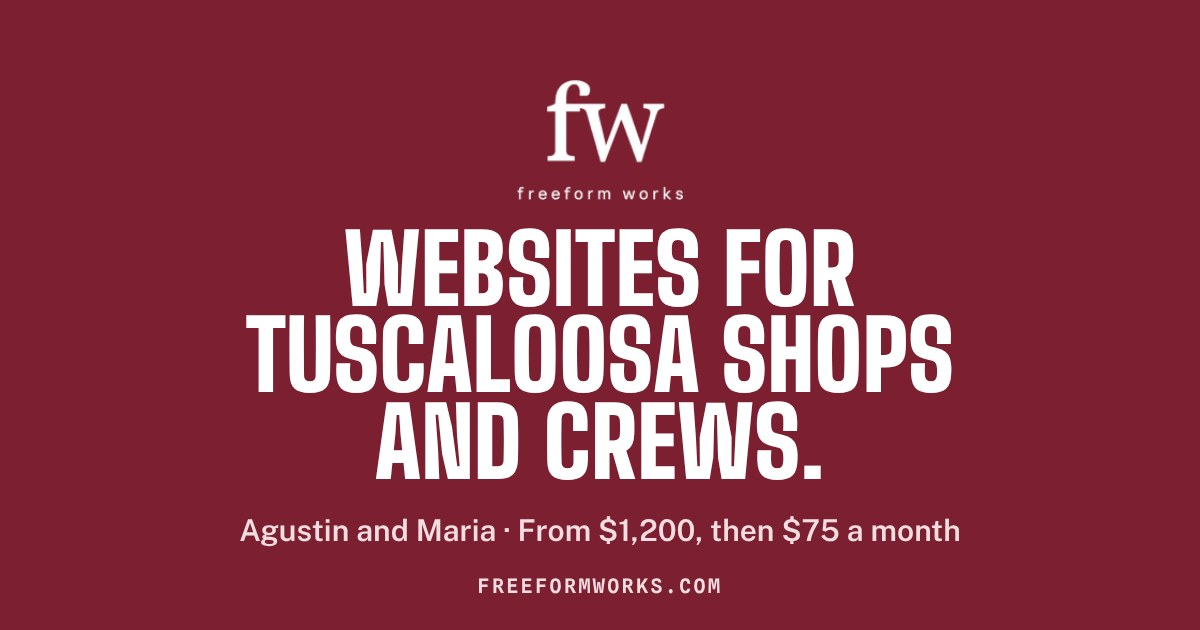
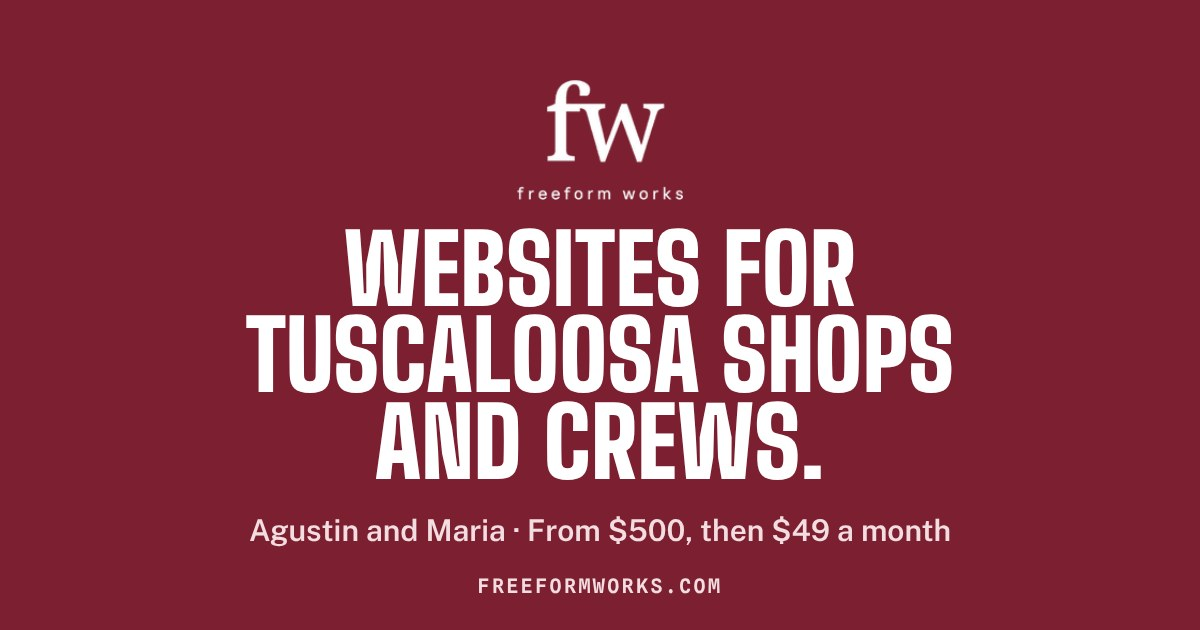
Pricing: add Solo plan, payment options and founding clients
From the competitor pricing research:
- New Solo plan, $500 + $49/mo, for one person with one calendar:
  a 1-3 page site, booking for one calendar, Google profile cleanup
  and search setup. The receipt now has Solo / Shop / Crew tabs, with
  Shop selected first; the auto-flip goes Shop, Crew, Solo.
- Shop can be $0 down: $175 a month for 12 months, then $75.
- Crew setup is paid half at kickoff, half at launch.
- One price per business, yearly billing at two months free, and a
  founding-client offer: half off setup for the first five shops and
  first three crews, for a review, testimonial and permission to show
  the work.
- Hero link for solo operators opens the receipt on Solo. Meta,
  business info and the share card now say "From $500".
- PRODUCT.md records the new plans, and that invoicing/payments and
  the chair dashboard are not built yet.

Claude-Session: https://claude.ai/code/session_01GpGpBTmoGn8bS7CZ4poFxu

Changed region(s): [[0.185, 0.8143, 0.8017, 0.8746]]

diff --git a/index.html b/index.html
@@ -5,17 +5,17 @@
 <meta name="viewport" content="width=device-width, initial-scale=1">
 <link rel="canonical" href="https://www.freeformworks.com/">
 <title>Freeform Works · Websites for Tuscaloosa shops and crews</title>
-<meta name="description" content="Agustin and Maria build websites, booking and owner dashboards for local shops and trade crews in Tuscaloosa. From $1,200, then $75 a month.">
+<meta name="description" content="Agustin and Maria build websites, booking and owner dashboards for local shops and trade crews in Tuscaloosa. From $500, then $49 a month.">
 <meta name="theme-color" content="#ffffff">
 <meta name="site-kind" content="other">
 <link rel="icon" href="assets/favicon-32.png" sizes="32x32" type="image/png">
 <link rel="icon" href="assets/favicon-16.png" sizes="16x16" type="image/png">
 <meta property="og:title" content="Freeform Works · Websites for Tuscaloosa shops and crews">
-<meta property="og:description" content="Websites, booking and owner dashboards for local businesses. From $1,200, then $75 a month.">
+<meta property="og:description" content="Websites, booking and owner dashboards for local businesses. From $500, then $49 a month.">
 <meta property="og:image" content="https://www.freeformworks.com/assets/social-card.jpg">
 <meta property="og:image:width" content="1200">
 <meta property="og:image:height" content="630">
-<meta property="og:image:alt" content="Freeform Works: websites for Tuscaloosa shops and crews. From $1,200, then $75 a month.">
+<meta property="og:image:alt" content="Freeform Works: websites for Tuscaloosa shops and crews. From $500, then $49 a month.">
 <meta property="og:type" content="website">
 <meta property="og:site_name" content="Freeform Works">
 <meta name="twitter:card" content="summary_large_image">
@@ -23,7 +23,7 @@
 <meta property="og:url" content="https://www.freeformworks.com/">
 <link rel="preload" href="assets/fonts/big-shoulders-display-900-latin.woff2" as="font" type="font/woff2" crossorigin>
 <link rel="preload" href="assets/fonts/public-sans-latin.woff2" as="font" type="font/woff2" crossorigin>
-<script type="application/ld+json">{"@context": "https://schema.org", "@type": "ProfessionalService", "name": "Freeform Works", "url": "https://www.freeformworks.com/", "email": "hello@freeformworks.com", "description": "Websites, booking on your own domain and owner dashboards for local shops and trade crews in Tuscaloosa, Alabama.", "areaServed": {"@type": "City", "name": "Tuscaloosa", "containedInPlace": {"@type": "State", "name": "Alabama"}}, "address": {"@type": "PostalAddress", "addressLocality": "Tuscaloosa", "addressRegion": "AL", "addressCountry": "US"}, "founder": [{"@type": "Person", "name": "Agustin Lemuz-Juarez"}, {"@type": "Person", "name": "Maria Estrada"}], "logo": "https://www.freeformworks.com/assets/fw-logo.png", "image": "https://www.freeformworks.com/assets/social-card.jpg", "makesOffer": [{"@type": "Offer", "name": "Shop plan", "price": "1200", "priceCurrency": "USD", "description": "Website, booking on your own domain, Google profile cleanup and Google search setup, then $75 a month."}, {"@type": "Offer", "name": "Crew plan", "price": "2500", "priceCurrency": "USD", "description": "Everything in the Shop plan plus quote requests, job scheduling and the owner dashboard, then $200 a month."}]}</script>
+<script type="application/ld+json">{"@context": "https://schema.org", "@type": "ProfessionalService", "name": "Freeform Works", "url": "https://www.freeformworks.com/", "email": "hello@freeformworks.com", "description": "Websites, booking on your own domain and owner dashboards for local shops and trade crews in Tuscaloosa, Alabama.", "areaServed": {"@type": "City", "name": "Tuscaloosa", "containedInPlace": {"@type": "State", "name": "Alabama"}}, "address": {"@type": "PostalAddress", "addressLocality": "Tuscaloosa", "addressRegion": "AL", "addressCountry": "US"}, "founder": [{"@type": "Person", "name": "Agustin Lemuz-Juarez"}, {"@type": "Person", "name": "Maria Estrada"}], "logo": "https://www.freeformworks.com/assets/fw-logo.png", "image": "https://www.freeformworks.com/assets/social-card.jpg", "makesOffer": [{"@type": "Offer", "name": "Solo plan", "price": "500", "priceCurrency": "USD", "description": "A one to three page website, booking for one calendar on your own domain, Google profile cleanup and Google search setup, then $49 a month."}, {"@type": "Offer", "name": "Shop plan", "price": "1200", "priceCurrency": "USD", "description": "Website, booking on your own domain, Google profile cleanup and Google search setup, then $75 a month."}, {"@type": "Offer", "name": "Crew plan", "price": "2500", "priceCurrency": "USD", "description": "Everything in the Shop plan plus quote requests, job scheduling and the owner dashboard, then $200 a month."}]}</script>
 <style>
   @font-face { font-family: "Big Shoulders Display"; font-style: normal; font-weight: 900; font-display: swap; src: url("assets/fonts/big-shoulders-display-900-latin.woff2") format("woff2"); }
   @font-face { font-family: "Public Sans"; font-style: normal; font-weight: 100 900; font-display: swap; src: url("assets/fonts/public-sans-latin.woff2") format("woff2"); }
@@ -454,19 +454,19 @@
   .t-head { text-align: center; }
   .t-head strong { display: block; font-weight: 600; font-size: 17px; letter-spacing: 0.08em; }
   .rule { border: 0; border-top: 2px dashed var(--ink); margin: 16px 0; }
-  .tabs { display: grid; grid-template-columns: 1fr 1fr; gap: 8px; }
+  .tabs { display: grid; grid-template-columns: repeat(3, 1fr); gap: 8px; }
   .tabs button { font: 600 15px/1.2 var(--mono); cursor: pointer; min-height: 44px; padding: 10px 8px; border: 2px solid var(--ink); background: var(--paper); color: var(--ink); }
   .tabs button[aria-pressed="true"] { background: var(--ink); color: var(--paper); }
   .for { margin-top: 10px; font-size: 14px; }
   .ticket ul { list-style: none; padding: 0; }
   /* crew-only lines stay on the ticket; their right column flips between the plans */
   .crew-only > span:first-child { transition: color 300ms ease; }
-  [data-tier="shop"] .crew-only > span:first-child { color: var(--ink-mute); }
+  .ticket:not([data-tier="trade"]) .crew-only > span:first-child { color: var(--ink-mute); }
+  /* each value column holds one answer per plan; only the current plan's answer is in view */
   .val { display: inline-grid; justify-items: end; overflow: clip; }
-  .val > span { grid-area: 1 / 1; white-space: nowrap; }
+  .val > span { grid-area: 1 / 1; white-space: nowrap; translate: 0 110%; }
+  .val > span.on { translate: 0 0; }
   .val .no { color: var(--ink-mute); }
-  [data-tier="shop"] .val .yes { translate: 0 110%; }
-  [data-tier="trade"] .val .no { translate: 0 -110%; }
   .for { transition: opacity 160ms ease; min-height: calc(2 * 1.55em); display: flex; align-items: center; gap: 14px; }
   .for svg { width: 26px; height: 26px; flex: none; fill: none; stroke: var(--ink); stroke-width: 1.8; stroke-linecap: round; stroke-linejoin: round; }
   @media (prefers-reduced-motion: no-preference) {
@@ -474,7 +474,7 @@
     .for svg:nth-child(2) { animation-delay: 40ms; } .for svg:nth-child(3) { animation-delay: 80ms; } .for svg:nth-child(4) { animation-delay: 120ms; }
     @keyframes for-pop { from { opacity: 0; transform: translateY(4px) scale(.92); } }
   }
-  .t-terms { min-height: calc(2 * 1.55em); }
+  .t-terms { min-height: calc(3 * 1.55em); }
   .for.swap { opacity: 0; }
   @media (prefers-reduced-motion: no-preference) {
     .val > span { transition: translate 420ms cubic-bezier(.77, 0, .175, 1); }
@@ -492,6 +492,8 @@
   .total .amt.flash { animation: flash 700ms ease-out; }
   @keyframes flash { from { background: var(--wine-tint); } }
   .t-terms { font-size: 14px; margin-top: 8px; }
+  .founding { margin-top: 28px; padding: 16px 18px; border: 2px dashed currentColor; max-width: 46ch; }
+  .founding-title { font: 600 13px/1.2 var(--mono); text-transform: uppercase; letter-spacing: .08em; margin-bottom: 6px; }
   .sr { position: absolute; width: 1px; height: 1px; overflow: hidden; clip: rect(0 0 0 0); white-space: nowrap; }
   .ticket .btn { width: 100%; margin-top: 18px; min-height: 52px; font-size: 17px; border-radius: 0; }
   .barcode { display: block; width: 100%; height: 46px; margin-top: 18px; }
@@ -650,7 +652,7 @@
           dd.innerHTML = `<span class="sr">${text}</span><span aria-hidden="true">${cols}</span>`;
         });
       </script>
-      <a class="textlink see" href="#prices">See what each plan includes</a>
+      <a class="textlink see" href="#prices" data-pick="solo">Working on your own? Plans start at $500</a>
       <div class="actions">
         <a class="btn btn-wine" href="/book"><span class="roll"><span>Book a 15-min call</span><span class="alt" aria-hidden="true">Free. Pick a time</span></span>
           <svg viewBox="0 0 24 24" fill="none" stroke="currentColor" stroke-width="2.5" aria-hidden="true"><path d="M7 17 17 7M8 7h9v9"/></svg>
@@ -719,21 +721,21 @@
     <p class="label">What you get</p>
     <div class="offer-head">
       <h2 id="what-title">What we build for you.</h2>
-      <p class="lede">Three pieces. Shops get the first two. Crews get all three.</p>
+      <p class="lede">Three pieces. Solo and Shop plans get the first two. Crews get all three.</p>
     </div>
     <ul class="offer-list">
       <li>
         <div class="offer-name"><p class="offer-num">01</p><svg class="oi" viewBox="0 0 64 48" aria-hidden="true"><rect class="ink" x="4" y="4" width="56" height="40" rx="4"/><path class="ink" d="M4 13h56"/><circle cx="10" cy="8.5" r="1.6" style="fill:var(--ink)"/><circle cx="15" cy="8.5" r="1.6" style="fill:var(--ink)"/><rect class="wine grow" x="11" y="19" width="22" height="8" rx="1.5"/><path class="soft grow" d="M11 33h40"/><path class="soft grow" d="M11 38h28"/></svg><h3>A website that's yours</h3></div>
         <div>
           <p>Built from scratch on your own domain, and fast on a phone: our first one scored 94 out of 100 on Google's phone test in November 2026. We fix your Google profile so your hours and number match, and set the site up so Google can find it: a title and description for every page, a sitemap, and Google Search Console.</p>
-          <p class="who">Included in <span class="chip">Shop</span><span class="chip">Crew</span></p>
+          <p class="who">Included in <span class="chip">Solo</span><span class="chip">Shop</span><span class="chip">Crew</span></p>
         </div>
       </li>
       <li>
         <div class="offer-name"><p class="offer-num">02</p><svg class="oi" viewBox="0 0 64 48" aria-hidden="true"><rect class="ink" x="6" y="6" width="52" height="38" rx="4"/><path class="ink" d="M6 15h52M18 2v8M46 2v8"/><g style="fill:var(--cell-soft)"><rect x="12" y="20" width="10" height="8" rx="1.5"/><rect x="27" y="20" width="10" height="8" rx="1.5"/><rect x="12" y="32" width="10" height="8" rx="1.5"/><rect x="27" y="32" width="10" height="8" rx="1.5"/><rect x="42" y="32" width="10" height="8" rx="1.5"/></g><rect class="wine slot" x="42" y="20" width="10" height="8" rx="1.5"/><path class="tick" d="M44.5 24l2 2 3.5-4"/></svg><h3>Booking on your own site</h3></div>
         <div>
           <p>Customers pick a time on your website and you both get a calendar invite, with no app listing your competitors next to you. Already on Square, GlossGenius or Vagaro? We'll put that on your site instead. <a class="textlink" href="/book">Try ours</a>.</p>
-          <p class="who">Included in <span class="chip">Shop</span><span class="chip">Crew</span></p>
+          <p class="who">Included in <span class="chip">Solo</span><span class="chip">Shop</span><span class="chip">Crew</span></p>
         </div>
       </li>
       <li>
@@ -801,11 +803,17 @@
     <div>
       <p class="label">Published pricing</p>
       <h2 id="prices-title">Here's the whole price.</h2>
-      <p class="lede">Pick your kind of business and the ticket updates. What you see is what you pay.</p>
+      <p class="lede">Pick your plan and the ticket updates. What you see is what you pay.</p>
       <ul class="terms">
-        <li><svg viewBox="0 0 24 24" fill="none" stroke="currentColor" stroke-width="2.5" aria-hidden="true"><path d="m4 12 5 5L20 6"/></svg><span>Cancel the monthly plan anytime. No contract.</span></li>
+        <li><svg viewBox="0 0 24 24" fill="none" stroke="currentColor" stroke-width="2.5" aria-hidden="true"><path d="m4 12 5 5L20 6"/></svg><span>Month to month. Cancel the monthly plan anytime.</span></li>
+        <li><svg viewBox="0 0 24 24" fill="none" stroke="currentColor" stroke-width="2.5" aria-hidden="true"><path d="m4 12 5 5L20 6"/></svg><span>One price per business, not per chair or per person.</span></li>
+        <li><svg viewBox="0 0 24 24" fill="none" stroke="currentColor" stroke-width="2.5" aria-hidden="true"><path d="m4 12 5 5L20 6"/></svg><span>Pay for a year up front and get two months free.</span></li>
         <li><svg viewBox="0 0 24 24" fill="none" stroke="currentColor" stroke-width="2.5" aria-hidden="true"><path d="m4 12 5 5L20 6"/></svg><span>Your domain is in your name. We buy it for you if it's under $100.</span></li>
       </ul>
+      <div class="founding">
+        <p class="founding-title">Founding clients</p>
+        <p>Our first five shops and first three crews get half off setup. In return, we ask for a Google review, a short testimonial and permission to show the work.</p>
+      </div>
     </div>
 
     <div class="ticket-wrap">
@@ -817,24 +825,25 @@
         </div>
         <hr class="rule">
         <div class="tabs" role="group" aria-label="Pick your business">
+          <button type="button" aria-pressed="false" data-tier="solo">Solo</button>
           <button type="button" aria-pressed="true" data-tier="shop">Shop</button>
           <button type="button" aria-pressed="false" data-tier="trade">Crew</button>
         </div>
         <p class="for" id="for" role="img" aria-label="For barbers, salons, photographers, florists and restaurants"><svg viewBox="0 0 24 24" aria-hidden="true"><title>Barbers and salons</title><circle cx="6" cy="6.5" r="2.7"/><circle cx="6" cy="17.5" r="2.7"/><path d="M8.2 8.1 20 18M8.2 15.9 20 6"/></svg><svg viewBox="0 0 24 24" aria-hidden="true"><title>Photographers</title><rect x="3" y="7" width="18" height="13" rx="2"/><path d="m8.5 7 1.5-2.5h4L15.5 7"/><circle cx="12" cy="13.5" r="3.4"/></svg><svg viewBox="0 0 24 24" aria-hidden="true"><title>Florists</title><circle cx="12" cy="5.5" r="2.4"/><circle cx="15.8" cy="9" r="2.4"/><circle cx="12" cy="12.5" r="2.4"/><circle cx="8.2" cy="9" r="2.4"/><path d="M12 15v6.5M12 19c-2.6 0-4-1.4-4.4-3.2 2.4 0 3.9 1.1 4.4 3.2z"/></svg><svg viewBox="0 0 24 24" aria-hidden="true"><title>Restaurants</title><path d="M6 3v6a2 2 0 0 0 4 0V3M8 3v18M17 3c-2.2 1.8-2.6 6.4-.4 9H17v9"/></svg></p>
         <hr class="rule">
         <ul id="items">
-          <li class="line"><span>Custom website</span><span>incl.</span></li>
-          <li class="line"><span>Booking on your own domain</span><span>incl.</span></li>
+          <li class="line"><span>Custom website</span><span class="val"><span data-on="solo" aria-hidden="true">1-3 pages</span><span class="on" data-on="shop trade">incl.</span></span></li>
+          <li class="line"><span>Booking on your own domain</span><span class="val"><span data-on="solo" aria-hidden="true">1 calendar</span><span class="on" data-on="shop trade">incl.</span></span></li>
           <li class="line"><span>Google profile cleanup</span><span>incl.</span></li>
           <li class="line"><span>Google search setup</span><span>incl.</span></li>
-          <li class="line crew-only"><span>Quote requests</span><span class="val"><span class="yes" aria-hidden="true">incl.</span><span class="no">Crew plan</span></span></li>
-          <li class="line crew-only"><span>Job scheduling</span><span class="val"><span class="yes" aria-hidden="true">incl.</span><span class="no">Crew plan</span></span></li>
-          <li class="line crew-only"><span>Owner dashboard</span><span class="val"><span class="yes" aria-hidden="true">incl.</span><span class="no">Crew plan</span></span></li>
+          <li class="line crew-only"><span>Quote requests</span><span class="val"><span class="on no" data-on="solo shop">Crew plan</span><span data-on="trade" aria-hidden="true">incl.</span></span></li>
+          <li class="line crew-only"><span>Job scheduling</span><span class="val"><span class="on no" data-on="solo shop">Crew plan</span><span data-on="trade" aria-hidden="true">incl.</span></span></li>
+          <li class="line crew-only"><span>Owner dashboard</span><span class="val"><span class="on no" data-on="solo shop">Crew plan</span><span data-on="trade" aria-hidden="true">incl.</span></span></li>
         </ul>
         <hr class="rule">
         <p class="line total"><span>Setup, one time</span><span class="amt" id="setup">$1,200</span></p>
         <p class="line total"><span>Then monthly</span><span class="amt" id="monthly">$75</span></p>
-        <p class="t-terms" id="t-terms">Hosting, edits and updates included.</p>
+        <p class="t-terms" id="t-terms">Hosting, edits and updates included. Or $0 down: $175 a month for 12 months, then $75.</p>
         <p class="sr" id="tier-status" aria-live="polite"></p>
         <a class="btn btn-ink" href="/book"><span class="roll"><span>Book a 15-min call</span><span class="alt" aria-hidden="true">Free. Pick a time</span></span></a>
         <svg class="barcode" id="barcode" viewBox="0 0 200 40" preserveAspectRatio="none" aria-hidden="true"></svg>
@@ -921,12 +930,15 @@
 
 <script>
   const tiers = {
+    solo: { for: 'For booth renters, solo stylists, pet groomers and photographers', icons: '<svg viewBox="0 0 24 24" aria-hidden="true"><title>Barbers and salons</title><circle cx="6" cy="6.5" r="2.7"/><circle cx="6" cy="17.5" r="2.7"/><path d="M8.2 8.1 20 18M8.2 15.9 20 6"/></svg><svg viewBox="0 0 24 24" aria-hidden="true"><title>Photographers</title><rect x="3" y="7" width="18" height="13" rx="2"/><path d="m8.5 7 1.5-2.5h4L15.5 7"/><circle cx="12" cy="13.5" r="3.4"/></svg><svg viewBox="0 0 24 24" aria-hidden="true"><title>Pet groomers</title><circle cx="6.5" cy="10.5" r="1.8"/><circle cx="9.7" cy="6.5" r="1.8"/><circle cx="14.3" cy="6.5" r="1.8"/><circle cx="17.5" cy="10.5" r="1.8"/><path d="M12 12.2c-3 0-5.5 3.2-5.5 5.3 0 1.6 1.3 2.2 2.6 2.2 1.2 0 1.9-.6 2.9-.6s1.7.6 2.9.6c1.3 0 2.6-.6 2.6-2.2 0-2.1-2.5-5.3-5.5-5.3z"/></svg>',
+            items: ['Custom website, 1 to 3 pages', 'Booking for one calendar on your own domain', 'Google profile cleanup', 'Google search setup'],
+            setup: '$500', monthly: '$49', terms: 'Hosting, edits and updates included. One person, one calendar.', name: 'Solo plan' },
     shop: { for: 'For barbers, salons, photographers, florists and restaurants', icons: '<svg viewBox="0 0 24 24" aria-hidden="true"><title>Barbers and salons</title><circle cx="6" cy="6.5" r="2.7"/><circle cx="6" cy="17.5" r="2.7"/><path d="M8.2 8.1 20 18M8.2 15.9 20 6"/></svg><svg viewBox="0 0 24 24" aria-hidden="true"><title>Photographers</title><rect x="3" y="7" width="18" height="13" rx="2"/><path d="m8.5 7 1.5-2.5h4L15.5 7"/><circle cx="12" cy="13.5" r="3.4"/></svg><svg viewBox="0 0 24 24" aria-hidden="true"><title>Florists</title><circle cx="12" cy="5.5" r="2.4"/><circle cx="15.8" cy="9" r="2.4"/><circle cx="12" cy="12.5" r="2.4"/><circle cx="8.2" cy="9" r="2.4"/><path d="M12 15v6.5M12 19c-2.6 0-4-1.4-4.4-3.2 2.4 0 3.9 1.1 4.4 3.2z"/></svg><svg viewBox="0 0 24 24" aria-hidden="true"><title>Restaurants</title><path d="M6 3v6a2 2 0 0 0 4 0V3M8 3v18M17 3c-2.2 1.8-2.6 6.4-.4 9H17v9"/></svg>',
             items: ['Custom website', 'Booking on your own domain', 'Google profile cleanup', 'Google search setup'],
-            setup: '$1,200', monthly: '$75', terms: 'Hosting, edits and updates included.', name: 'Shop plan' },
+            setup: '$1,200', monthly: '$75', terms: 'Hosting, edits and updates included. Or $0 down: $175 a month for 12 months, then $75.', name: 'Shop plan' },
     trade: { for: 'For lawn care, landscaping and contractors', icons: '<svg viewBox="0 0 24 24" aria-hidden="true"><title>Lawn care</title><path d="M3.5 14.5h12l2.2-3.5M17.7 11 21 3.5"/><circle cx="6.5" cy="18" r="2.4"/><circle cx="14.5" cy="18" r="2.4"/><path d="M3.5 14.5V12h9v2.5"/></svg><svg viewBox="0 0 24 24" aria-hidden="true"><title>Landscaping</title><path d="M5 19.5C5 11 10.5 5 19.5 4.5 19 13 13 19 5 19.5z"/><path d="M5 19.5 13 11.5"/></svg><svg viewBox="0 0 24 24" aria-hidden="true"><title>Contractors</title><g transform="rotate(-35 12 12)"><rect x="5.5" y="3.5" width="12" height="5" rx="1"/><path d="M17.5 5h2.5M10.5 8.5v12a1.5 1.5 0 0 0 3 0v-12"/></g></svg>',
              items: ['Custom website', 'Booking on your own domain', 'Google profile cleanup', 'Google search setup', 'Quote requests', 'Job scheduling', 'Owner dashboard'],
-             setup: '$2,500', monthly: '$200', terms: 'Hosting, edits, updates and dashboard support included.', name: 'Crew plan' }
+             setup: '$2,500', monthly: '$200', terms: 'Hosting, edits, updates and dashboard support included. Setup is paid half at kickoff, half at launch.', name: 'Crew plan' }
   };
   const $ = (id) => document.getElementById(id);
   const moving = matchMedia('(prefers-reduced-motion: no-preference)').matches;
@@ -951,9 +963,10 @@
     const forEl = $('for');
     forEl.classList.add('swap');
     setTimeout(() => { forEl.innerHTML = t.icons; forEl.setAttribute('aria-label', t.for); forEl.classList.remove('swap'); }, moving ? 160 : 0);
-    document.querySelectorAll('.crew-only').forEach((li) => {
-      li.querySelector('.yes').setAttribute('aria-hidden', String(key !== 'trade'));
-      li.querySelector('.no').setAttribute('aria-hidden', String(key === 'trade'));
+    document.querySelectorAll('.val > span').forEach((v) => {
+      const on = v.dataset.on.split(' ').includes(key);
+      v.classList.toggle('on', on);
+      v.setAttribute('aria-hidden', String(!on));
     });
     countTo($('setup'), t.setup);
     countTo($('monthly'), t.monthly);
@@ -966,6 +979,11 @@
   document.querySelectorAll('.tabs button').forEach((b) => b.addEventListener('click', () => {
     tabsEl.classList.remove('auto'); /* once someone picks, it stays put */
     show(b.dataset.tier);
+  }));
+  /* "Working on your own?" in the hero opens the receipt on the Solo plan */
+  document.querySelectorAll('[data-pick]').forEach((a) => a.addEventListener('click', () => {
+    tabsEl.classList.remove('auto');
+    show(a.dataset.pick);
   }));
   /* the receipt flips between the two plans by itself until someone picks one.
      It holds while it's off screen or under the pointer. */
@@ -981,7 +999,8 @@
     wrap.addEventListener('focusout', () => { near = false; sync(); });
     tabsEl.addEventListener('animationend', (e) => {
       if (e.animationName !== 'tab-timer' || !tabsEl.classList.contains('auto')) return;
-      show(current === 'shop' ? 'trade' : 'shop', false);
+      const order = ['shop', 'trade', 'solo'];
+      show(order[(order.indexOf(current) + 1) % order.length], false);
     });
   }
 

diff --git a/PRODUCT.md b/PRODUCT.md
@@ -34,16 +34,22 @@ Deliverable to a client today:
 - Owner dashboard. Agustin can stand one up for a client in 12 hours or less.
 
 Not deliverable yet, so never sold or shown as working:
+- Invoicing and payments in the Crew dashboard (planned: invoices with a pay link through the client's own Stripe or Square account, deposits on accepted quotes, paid status on the dashboard; other payment apps marked paid by hand). Money always goes straight to the client's own account; we never hold it. Not on the site until it ships.
+- The shop "chair dashboard" (cuts per barber, booked value, walk-in log, Booksy plus walk-ins in one count). Booksy has no open API, so its bookings would come from forwarded booking emails or a report export. Only ever described as a labeled beta until it ships.
 - AI intake (an assistant that answers new customers). Do not list it as included in setup or in the care plan until it exists. A demo of it may only appear if it is built and clearly labeled as a demo.
 
-Pricing: published on the site, never "contact us for pricing". Working prices (adopted for now, from `docs/pricing-research.md`):
+Pricing: published on the site, never "contact us for pricing". Working prices (adopted Nov 2026 after the competitor research in `reports/Shop and Crew pricing.md`, kept outside the repo):
+- Solo: $500 setup, $49/mo (hosting, edits, updates). For one person with one bookable calendar (booth renters, solo stylists, pet groomers, photographers). A 1 to 3 page website, booking for one calendar on their own domain, Google profile cleanup, Google search setup. If a Solo client opens a shop, their Solo setup fee counts toward Shop's.
 - Shops: $1,200 setup, $75/mo (hosting, edits, updates). Website, booking on their own domain, Google profile cleanup, Google search setup.
 - Crews (trades): $2,500 setup, $200/mo (hosting, edits, updates, dashboard support). Everything in the shop plan (website, booking on their own domain, Google profile cleanup, Google search setup) plus quote requests, job scheduling and the owner dashboard.
 - "Google search setup" means: a title and description for every page, Google's business info tags, a sitemap submitted through Google Search Console, and a fast mobile-first build. Never promise rankings, positions or traffic.
-- Plan names on the site are "Shop" and "Crew", nothing else. The receipt's item lists are the single source of truth for what each plan includes.
+- Payment options: Shop can be $0 down at $175/mo for 12 months, then $75/mo (a 12-month plan; the site files transfer once the setup balance is paid). Crew's setup is paid half at kickoff and half at launch; no $0-down Crew. Any plan can be paid yearly at two months free.
+- One price per business, never per chair or per person.
+- Founding clients: the first five Shop clients and first three Crew clients get half off setup ($600 / $1,250), never a discount on the monthly. In return: a Google review, a short named testimonial, and permission to show the work. Dallas gets its own founding group at launch.
+- Plan names on the site are "Solo", "Shop" and "Crew", nothing else. The receipt's item lists are the single source of truth for what each plan includes.
 
 Terms:
-- Monthly plans are cancel anytime. No minimum term.
+- Monthly plans are cancel anytime. No minimum term, except the $0-down Shop option, which is a 12-month plan.
 - The client owns their domain. We buy it for them when it costs under $100; above that, the client buys it and we set it up.
 - Who owns the site code if a client cancels is undecided. Do not promise "you own your site" until it is settled.
 
